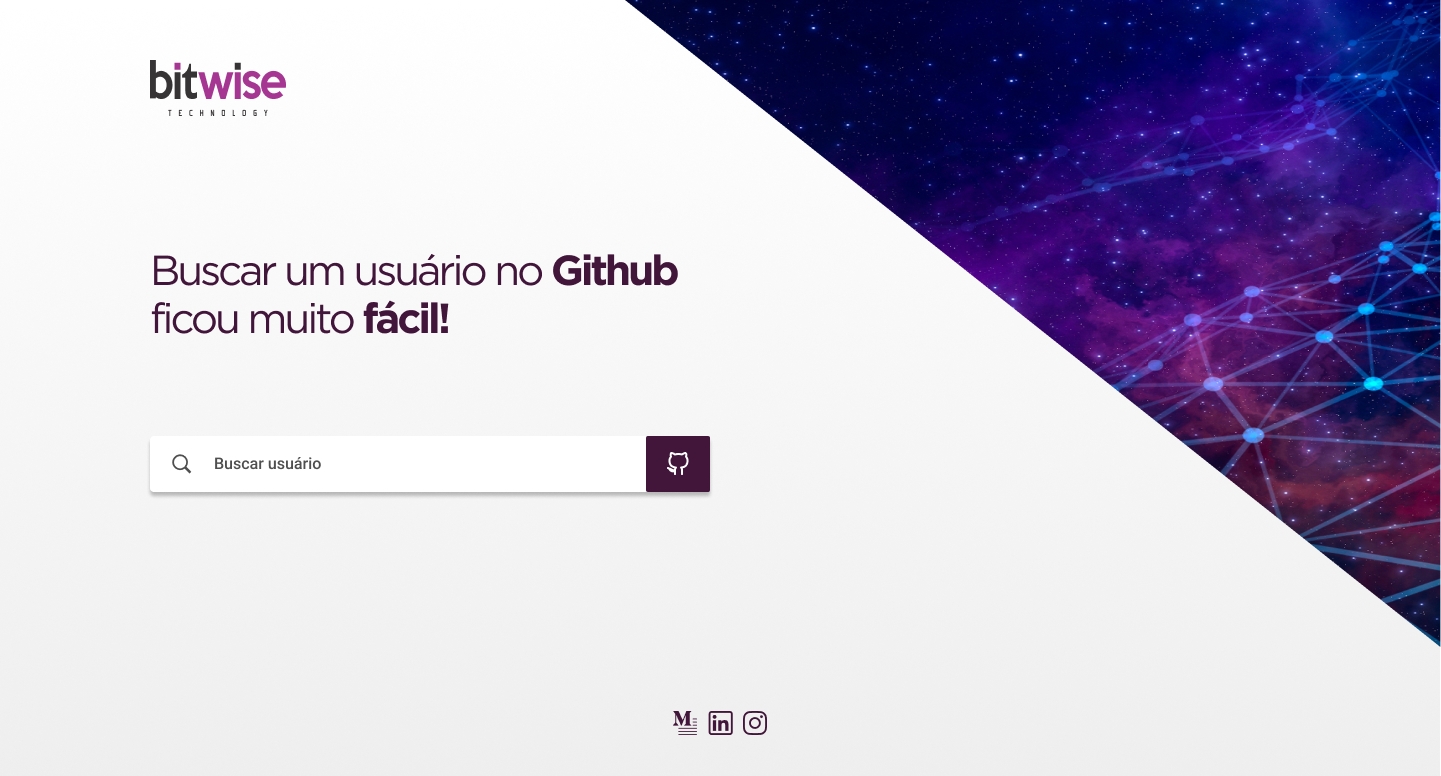
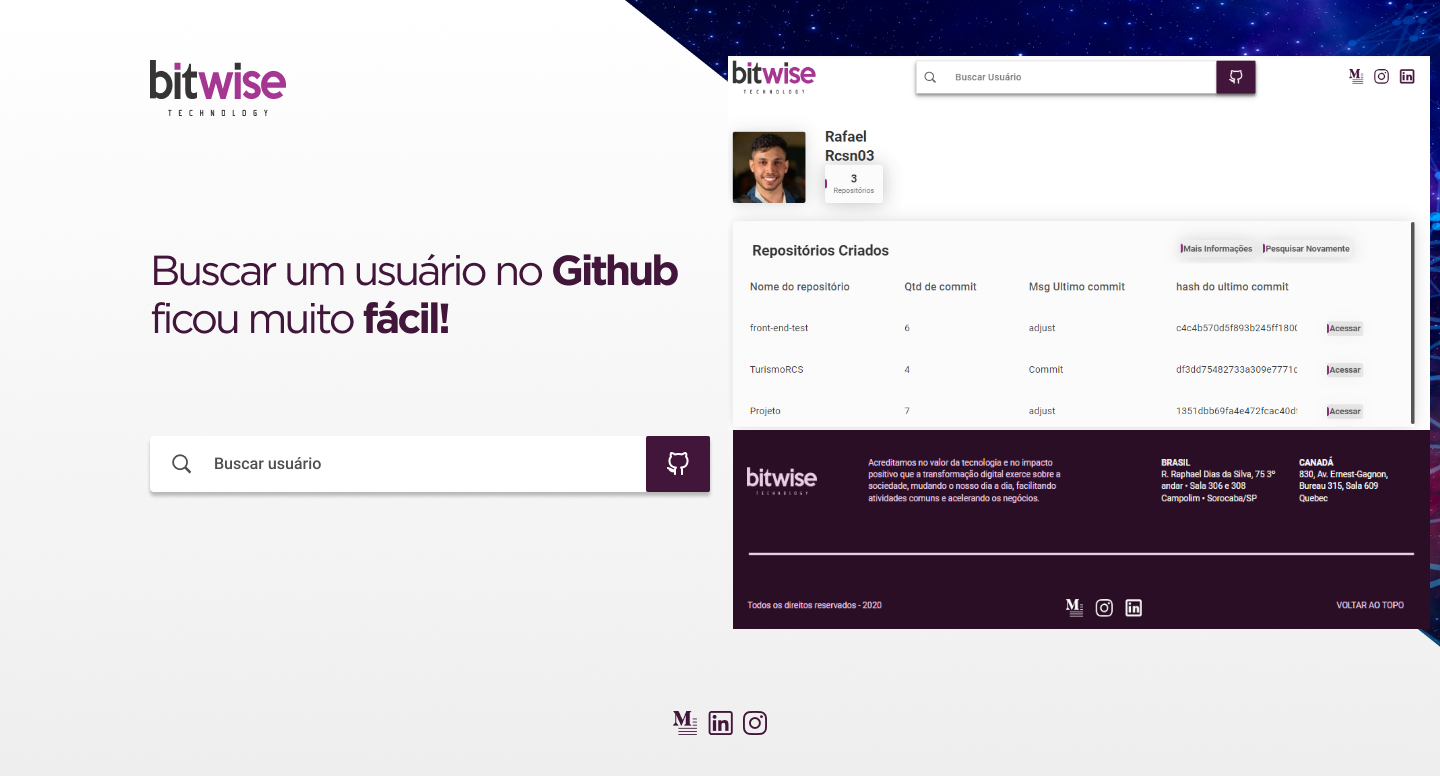
Adjust

diff --git a/js/app.js b/js/app.js
@@ -19,27 +19,34 @@ const refresh = document.getElementById("refresh");
 const x = document.querySelector("#alert .x");
 const repos = document.getElementById("repos");
 const userRepoContent = document.querySelector("#result .table");
+const gitlogo = document.querySelector(".githover1");
+const reload = document.querySelector(".reload");
 
 let response, isSuccessful;
 
 refresh.addEventListener("click", () => {
   location.reload();
 });
-
 x.addEventListener("click", () => {
   errorDiv.classList.add("inactive");
 });
+gitlogo.addEventListener("click", () => {
+  location.reload();    
+});
+reload.addEventListener("click", () => {
+  location.reload();    
+});
 
-fetch('https://api.github.com/users')
+fetch('https://api.github.com/users?per_page=100')
     .then(res => res.json())
     .then((json) => {
         console.log(json);
         const ul = document.getElementById('listaProdutos');
-        json.forEach((item) => {
+        json.forEach((data) => {
             const li = document.createElement("li");
             li.innerHTML = `
             
-                <span>${item.login}</span>
+                <span Class="item-name">${data.login}</span>
             
             `;
             ul.appendChild(li);
@@ -58,9 +65,9 @@ function filtrar() {
       count = 0
 
   //PEGAR OS ELEMENTOS HTML
-  input = document.getElementById('search');
+  input = document.getElementById('user');
   ul = document.getElementById('listaProdutos');
-
+  
   //FILTRO
   filter = input.value;
 
@@ -70,11 +77,11 @@ function filtrar() {
   //PERCORRER TODOS OS LI'S
   for (i = 0; i < li.length; i++) {
       //PEGAR A TAG A DO ELEMENTO PERCORRIDO
-      a = li[i].getElementsByTagName("a")[0];
+      a = li[i].getElementsByTagName("span")[0];
       //PEGAR O TEXTO DENTRO DO NOSSA TAG A
-      txtValue = a ;
+      txtValue = a.textContent;      
       //VERIFICAR SE O QUE O USUARIO DIGITOU BATE COM O TEXTO DA TAG A
-      if (txtValue .indexOf > -1) {
+      if (txtValue.indexOf(filter) > -1) {
           //VALOR BATEU
           li[i].style.display = "";
           //INCREMENTAR O CONTADOR
@@ -82,6 +89,7 @@ function filtrar() {
           //PEGAR A TAG SPAN DO ITEM
           span = li[i].querySelector(".item-name");
           //SE EXISTIR
+          console.log(txtValue.indexOf(filter));
           if (span) {
               span.innerHTML = txtValue.replace(new RegExp(filter, "gi"), (match) => {
                   return "<strong>" + match + "</strong>";
@@ -101,13 +109,12 @@ function filtrar() {
   }
 }
 
-
 form.addEventListener("submit", async (e) => {
   e.preventDefault();
   loading.style.display = "block";
 
   let apiLink = `https://api.github.com/users/${user.value}`;
-
+   
   // "./git-user.json"
 
   await getInfo(apiLink)
@@ -176,20 +183,16 @@ form.addEventListener("submit", async (e) => {
       userRepoLi.appendChild(namerepo)
             
       function qtd() {      
-      fetch(`https://api.github.com/repos/${user.value}/${namerepo.textContent}/contributors`)
+      fetch(`https://api.github.com/repos/${user.value}/${namerepo.textContent}/contributors?per_page=1`)
         .then(async res => {
           let data = await res.json();
-          data.map( item => {
-            
-            for (i = 0; i <= item.length; i++) {            
-              soma += item.contributions;               
-            }                                               
-            
-            const qtdcommit = document.createElement("span")
+          data.map( item => {          
+                                                     
+             const qtdcommit = document.createElement("span")
             qtdcommit.classList.add("qtd_commit")
-            qtdcommit.textContent = soma
+            qtdcommit.textContent = item.contributions
             userRepoLi.appendChild(qtdcommit)
-            console.log(soma);
+            
           })
         })                    
       }     
@@ -237,10 +240,6 @@ form.addEventListener("submit", async (e) => {
   }
 }
 });
-
-
-
-
 
 async function getInfo(url, options = {}) {
   // extract timeout param from options

diff --git a/index.html b/index.html
@@ -65,30 +65,23 @@
           <div class="load">
             <div></div>
           </div>
-        </form>
-
+        </form>                  
+        
         <div id="result_header">          
           <a class="logo3" href="https://bitwise.ltda/" target="_blank">
             <img src="./assets/Logo.svg" alt="Logo">
           </a>          
           <div class="pesquisa">
-            <form id="search1" action="" method="post" accept-charset="utf-8">
-              <label for="user"></label>
-              <div class="busca1">          
-                <input            
-                type="search"
-                id="user"
-                name="user"
-                placeholder="Buscar Usuário"
-              />          
-              </div>
-              <button type="submit"><img class="githover1" src="/assets/Github.svg" alt="Botão buscar"></button>
-              <div class="error"></div>
-              <div class="load">
-                <div></div>
-              </div>
-            </form>
+          <div class="reload"></div>            
+          <div class="busca1">          
+            <input            
+            type="search"
+            id="user1"              
+            placeholder="Buscar Usuário"
+          />             
           </div>
+          <img class="githover1" src="/assets/Github.svg" alt="Botão buscar">
+        </div>
           <div class="sociais">                     
               <a
                 href="https://bitwise.ltda/"

diff --git a/css/style.css b/css/style.css
@@ -136,7 +136,7 @@ color: #42163A;
 
 #listaProdutos{
   height: 150px;
-  width: 560px;
+  width: 560px; 
   text-align: center;
   background-color: white;
   text-align: left;
@@ -254,7 +254,7 @@ z-index: 1;
 }
 
 .pesquisa{
-  position: absolute;
+position: absolute;
 margin: 0;
 width: 560px;
 height: 56px;
@@ -271,8 +271,7 @@ z-index: 1;
   background-image: url(../assets/Search.svg);
   background-repeat: no-repeat;
   height: 56px;
-  width: 560px;
-  
+  width: 560px;  
   background-position: 1%;
   border: 1px solid #d6d6d6;
   box-shadow: 0px 4px 4px 0px #00000040;  
@@ -287,24 +286,27 @@ z-index: 1;
 
 .githover1{
   box-shadow: 0px 4px 4px 0px #00000040;
-  margin-left: -64px;
+  position: absolute;
+  right: 0;
+  bottom: 0;
+  display: flex;
+  align-items: flex-start;
+  cursor: pointer;
+  z-index: 1;
 }
 .githover1:hover{
   scale: 1.1;
 }
 
-#result_header .pesquisa form button[type="submit"]{
-border: 0;
-height: 0;
-align-items: center;
+.reload{
+position: absolute;
+display: flex;
 margin: 0;
-cursor: pointer;
+padding: 0;
+width: 496px;
+height: 56px;
 z-index: 1;
-}
-
-#search1{
-  display: flex;
-  align-items: center;
+cursor: pointer;
 }
 
 .sociais{

diff --git a/README.md b/README.md
@@ -1,12 +1,48 @@
-# GitHub Users Search API
-## using GitHub API to get some info about a user
+<h1 align="center"> Git Hub Search - Username 
+<img alt="projeto BitWise" src="/assets/Logo.svg" width="20%">
+</h1>
 
-This web app shows some information about any provided username.
+<p align="center">Desafio Frontend - Bitwise <br/>
 
+<p align="center">
+  <a href="#-tecnologias">Tecnologias</a>&nbsp;&nbsp;&nbsp;|&nbsp;&nbsp;&nbsp;
+  <a href="#-Desafio">Desafio</a>&nbsp;&nbsp;&nbsp;|&nbsp;&nbsp;&nbsp;
+  <a href="#-layout">Layout</a>&nbsp;&nbsp;&nbsp;|&nbsp;&nbsp;&nbsp;  
+</p>
 
-![Capture01](https://github.com/GinMeek/GitHub-search/assets/58685297/46d5dbb8-f248-4d2d-8aa5-2ded32200aa2)
-Username search page
+<br>
 
+<p align="center">
+  <img alt="projeto BitWise" src="/assets/interface-example.png" width="100%">
+</p>
 
-![Capture02](https://github.com/GinMeek/GitHub-search/assets/58685297/2570b1fa-e6b1-4acd-b170-4eb36a78e283)
-Result page
+## 🚀 Tecnologias
+
+Esse projeto foi desenvolvido com as seguintes tecnologias:
+
+- HTML e CSS
+- JavaScript
+- Git e Github
+- Figma
+
+## 💻 Desafio
+
+Criar uma webpage usando a [API de GraphQL do Github](https://docs.github.com/en/graphql) ou [API de REST do Github](https://docs.github.com/en/rest) que tenha as seguintes features:
+
+- Implementação do campo de busca pelo nome de usuários no github
+- Caso o nome de usuário seja encontrado pela busca, mostrar imagem do perfil do github na pagina principal como está desenhada no Figma
+- Caso o nome de usuário não seja encontrado mostrar um alerta informando que o usuário não existe
+- Caso o nome de usuário possua ou participe de algum repositório, então mostrar uma lista com | Quantidade de repositórios do usuário | ( Participação e Repositórios criados pelo usuário ) | Nome do Repo | Quantidade de commits do usuário | Mensagem do ultimo commit | Hash do ultimo commit |
+- Caso o nome de usuário não possua e nem participe de nenhum repositório mostrar um alert informando que o usuário encontrado não possui nenhum repo.
+Adicional
+- Adicione ao campo de busca sugestões de nome de usuários, ou seja, quando usuário começar a digitar "mend" abaixo do campo de busca irá mostrar uma lista de nomes como: "mendos, mendesbarreto, mendeswhat" etc.. e quando usuário clicar em um desses nomes irá executar as atividades descritas acima.
+
+- [Acesse o projeto finalizado, online](https://rcsn03.github.io/front-end-test/)
+
+## 🔖 Layout
+
+Você pode visualizar o layout do projeto através [DESSE LINK](https://www.figma.com/file/0yRZAx8GSGDhKpjXvjMf4A/Bitwise-tests-V2?node-id=0%3A1).
+
+---
+
+Feito com ♥ by Rafa :wave:
